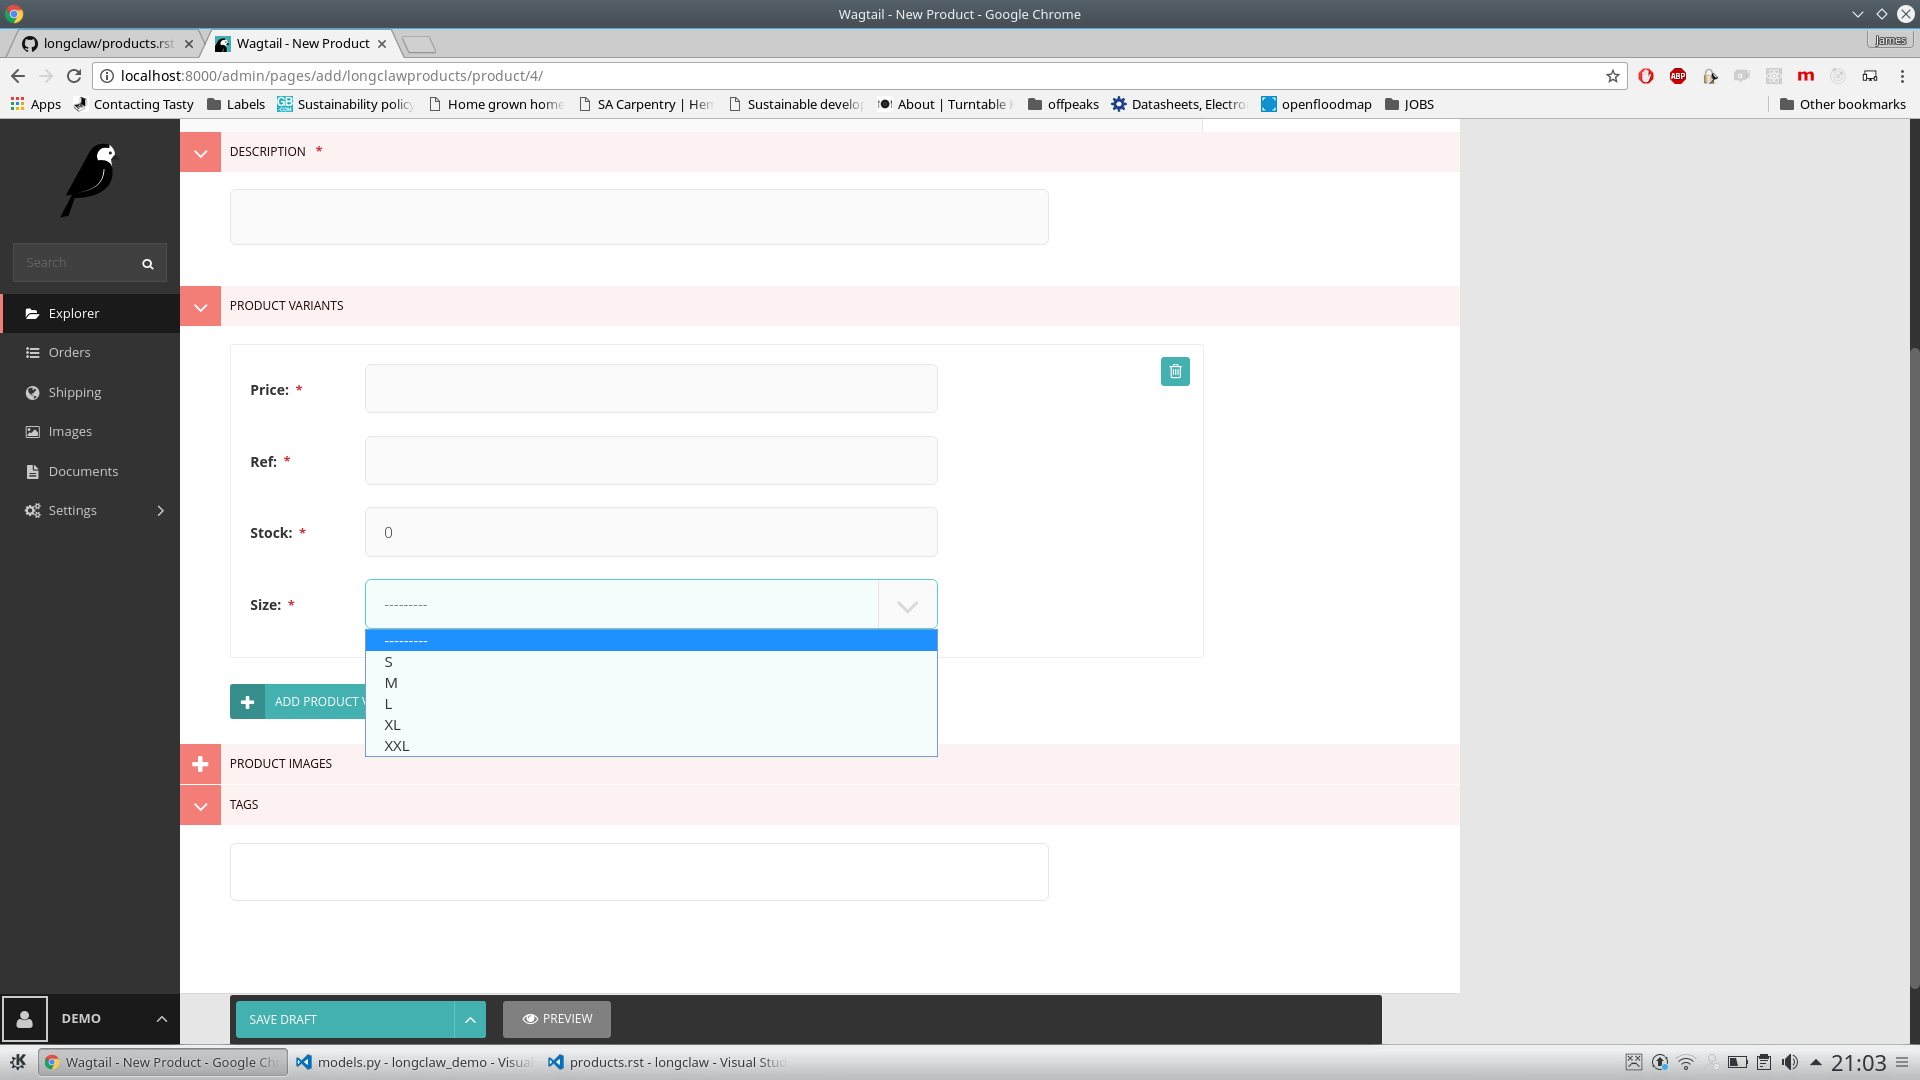
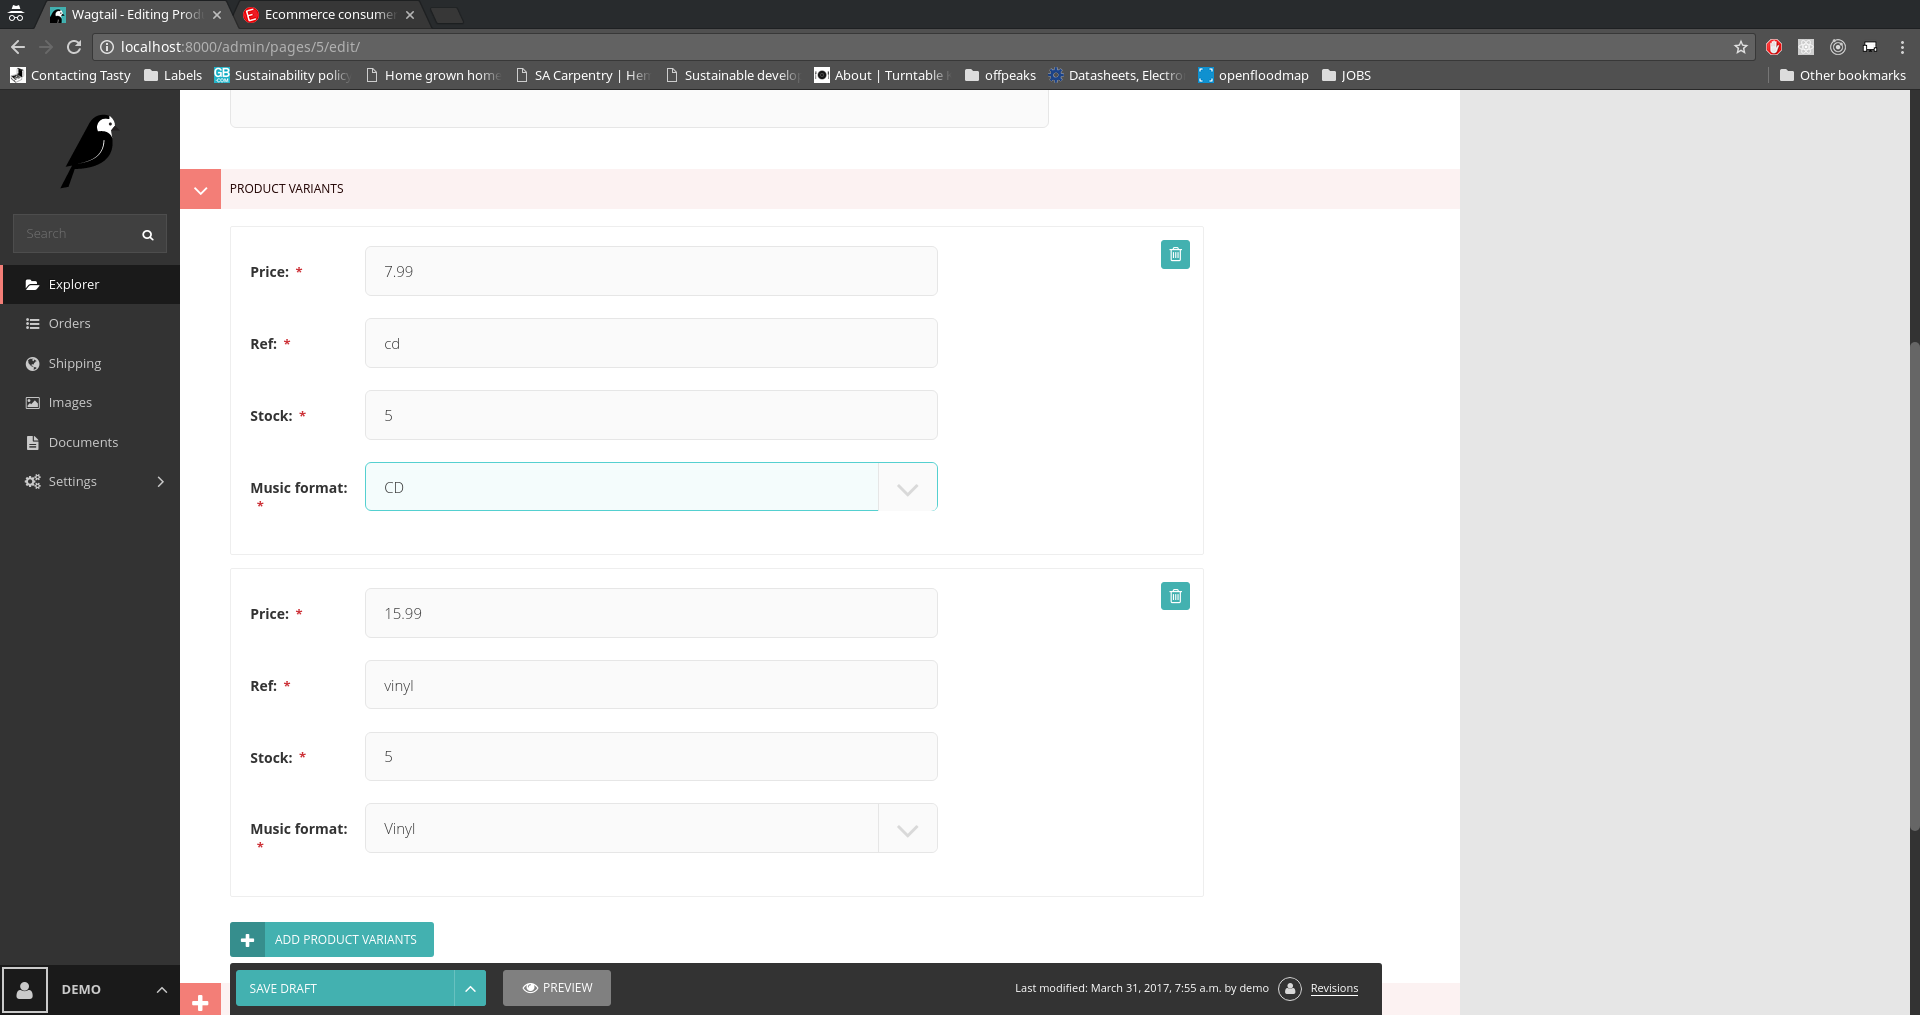
Working on #41

diff --git a/docs/walkthrough/products.rst b/docs/walkthrough/products.rst
@@ -48,23 +48,20 @@ We can further customise this now by opening ``my_shop/products/models.py`` in a
 The ``ref`` field is intended to be used as a short description or sub-title to help distinguish a particular variant.
 The ``slug`` field is autogenerated from the ``ref`` and the parent ``Product`` title.
 
-As we are creating a T-shirt shop, we are going to add a ``size`` field to the model. We will also
+As we are creating a music shop, we are going to add a ``music_format`` field to the model. We will also
 remove the ``description`` field as we dont have any real need for it at the moment:
 
 .. code:: python
 
   class ProductVariant(ProductVariantBase):
-      _SIZE_CHOICES = (
-        ('S', 'S'),
-        ('M', 'M'),
-        ('L', 'L'),
-        ('XL', 'XL'),
-        ('XXL', 'XXL')
+      _MUSIC_FORMAT_CHOICES = (
+        (1, 'CD'),
+        (2, 'Vinyl'),
       )
 
-      size = models.CharField(max_length=3, choices=_SIZE_CHOICES) 
+      music_format = models.IntegerField(max_length=3, choices=_MUSIC_FORMAT_CHOICES) 
 
-After making and running migrations, we can now select the size for each variant:
+After making and running migrations, we can now select the format for each variant:
 
   .. figure:: ../_static/images/product_variant.png
 
@@ -98,12 +95,12 @@ We can acheive the drop down like this:
 .. code-block:: django
 
     <dl>
-        <dt>Size</dt>
+        <dt>Format</dt>
         <dd>
         <div class="col-md-6">
             <select id="variant-select">
             {% for variant in page.variants.all %}
-            <option value="{{variant.id}}">{{variant.size}}</option>
+            <option value="{{variant.id}}">{{variant.music_format}}</option>
             {% endfor %}
             </select>
         </div>

diff --git a/docs/walkthrough/shipping.rst b/docs/walkthrough/shipping.rst
@@ -1,0 +1,42 @@
+.. _walkthrough_shipping:
+
+Configuring Shipping
+====================
+
+Now we can display products and add them to the basket, we must configure our shipping rates
+before setting up the checkout process.
+
+
+Per Country Rates
+------------------
+
+Shipping rates are set on a per-country basis via the ``Shipping`` page in the wagtail admin. 
+
+In the image below, we set a standard rate for the UK. It is possible to select multiple countries
+for a rate to apply to. We can also create more than one shipping rate for the same country.
+
+  .. figure:: ../_static/images/shipping.png
+
+Default Shipping Rate
+---------------------
+
+We can configure a default shipping rate to apply to all countries we have not explicitly specified. 
+
+.. note:: By enabling default shipping, you imply that you ship to *all* countries. If you do not wish this
+  you should *not* enable default shipping. 
+
+To enable default shipping:
+
+- Select ``settings`` from the wagtail admin menu
+- Select ``Longclaw Settings``
+- Fill in ``Default Shipping Rate`` and ``Default Shipping Carrier``
+- Ensure ``Enable Default Shipping`` is checked.
+
+  .. figure:: ../_static/images/default_shipping.png
+
+Currency
+********
+
+You can also define the currency in ``Longclaw Settings``. This applies site wide. It is mostly semantic -
+Longclaw assumes all calculations & prices are in the same currency - however some payment gateways require the 
+currency to be specified.

diff --git a/docs/walkthrough/index.rst b/docs/walkthrough/index.rst
@@ -1,9 +1,9 @@
 .. _walkthrough:
 
-Walkthrough: A T-Shirt Shop
+Walkthrough: A Music Shop
 ============================
 
-In this guided walkthrough, we will be making an online clothes shop selling T-shirts. 
+In this guided walkthrough, we will be making an online music shop selling CD's and Vinyl. 
 
 
 .. toctree::
